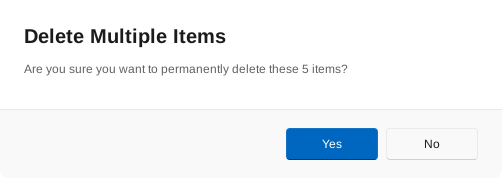
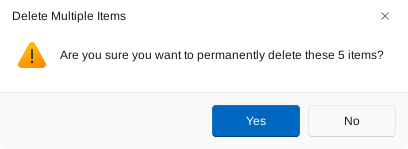
status(recycle-pass): delete questions as message boxes, recaptured

diff --git a/recycle-pass-pr.md b/recycle-pass-pr.md
@@ -12,6 +12,7 @@ What changed:
 
 - **Empty Recycle Bin and Delete in the Recycle Bin are fast.** Items that the Trash backend reports in a Trash folder the freedesktop Trash specification names (the home Trash, a drive's `.Trash-$UID` or `.Trash/$UID`) are deleted from disk: the item first, through the existing pinned permanent delete, then its `.trashinfo`. Anything else still goes through GVfs. Folders inside an item are made owner-only first, as GVfs does, so read-only folders go too. An item deleted only in part keeps its `.trashinfo` and stays listed.
 - **No backlog after big operations.** GVfs keeps a watched Trash folder's record in a sorted list and walks it from the start for every added or removed name. Items are now deleted in ascending and recycled in descending byte order of their names, so each lookup ends at once. Every Recycle Bin listing also shares one process-wide watch of `trash:///` instead of subscribing its own; GVfs kept sending changes to those after they were dropped.
+- **The delete questions are Windows message boxes.** Delete, Shift+Delete and Empty Recycle Bin ask in the shared message box that Rename and Confirm Save As use: the caption ("Delete File", "Delete Folder" or "Delete Multiple Items") in the title bar, the warning icon beside the question, one item's details under it, and Yes, which has focus, and No, also pressed with Alt+Y, Alt+N, Y and N. The wording and counts are unchanged.
 - **Progress.** Delete and Empty in the Recycle Bin now count the items done in the progress window (at most one report per 80 ms). Before, they showed no progress.
 - **Undo of a large Move to Trash** no longer scans the whole Recycle Bin once per item.
 - **Opening an item in the Recycle Bin** (double-click or Enter) shows its Properties, as Windows does, instead of opening the file in its app or browsing into the folder. Properties from the item's menu works now; before, it said the address was not supported. The General tab names its Origin and the date it was Deleted, and a trashed folder's Size and Contains are counted.
@@ -27,6 +28,7 @@ What changed:
 | Double-click a file in the Recycle Bin | Opens it in its app | Properties with Origin and Deleted | Properties |
 | Properties from a Recycle Bin item's menu | "Only local paths… are supported" | Properties | Properties |
 | Recycle Bin columns | Name, Original location, Date deleted, Type, Size | Name, Original location, Date deleted, Date modified, Type, Size | Name, Original Location, Date Deleted, Size, Item type, Date Modified |
+| Delete, Shift+Delete and Empty Recycle Bin questions | Large dialog with the caption as a bold heading | Message box: caption title, icon, question, Yes/No | Message box with caption, icon, question, Yes/No |
 | Folder path of a search result in the Recycle Bin | "/" | The folder it was deleted from | |
 
 ## CHANGED OWNER DECISIONS
@@ -40,6 +42,7 @@ These are not covered by Microsoft's documentation, so they still need checking 
 
 - Whether Windows opens Properties for a folder in the Recycle Bin, as it does for a file, and what several selected items open. Here both show Properties.
 - The exact rows of a Recycle Bin item's Properties in Windows 11 ("Origin", "Deleted").
+- The icon of Windows' delete questions; the app uses the warning icon of its other message boxes, with one item's details under the question.
 - The column order: Windows shows Size before Item type and Date Modified last. Here the folder's chosen order is kept after the Recycle Bin's own columns.
 - What Windows says when an item cannot be recycled because its name is too long for the Trash (here: "Interrupted Action", with the item kept), and whether it offers to delete it permanently instead.
 - Whether Windows disables Delete on read-only media. Here Delete asks the permanent-delete question and then reports "Read-only file system", and the file is kept.
